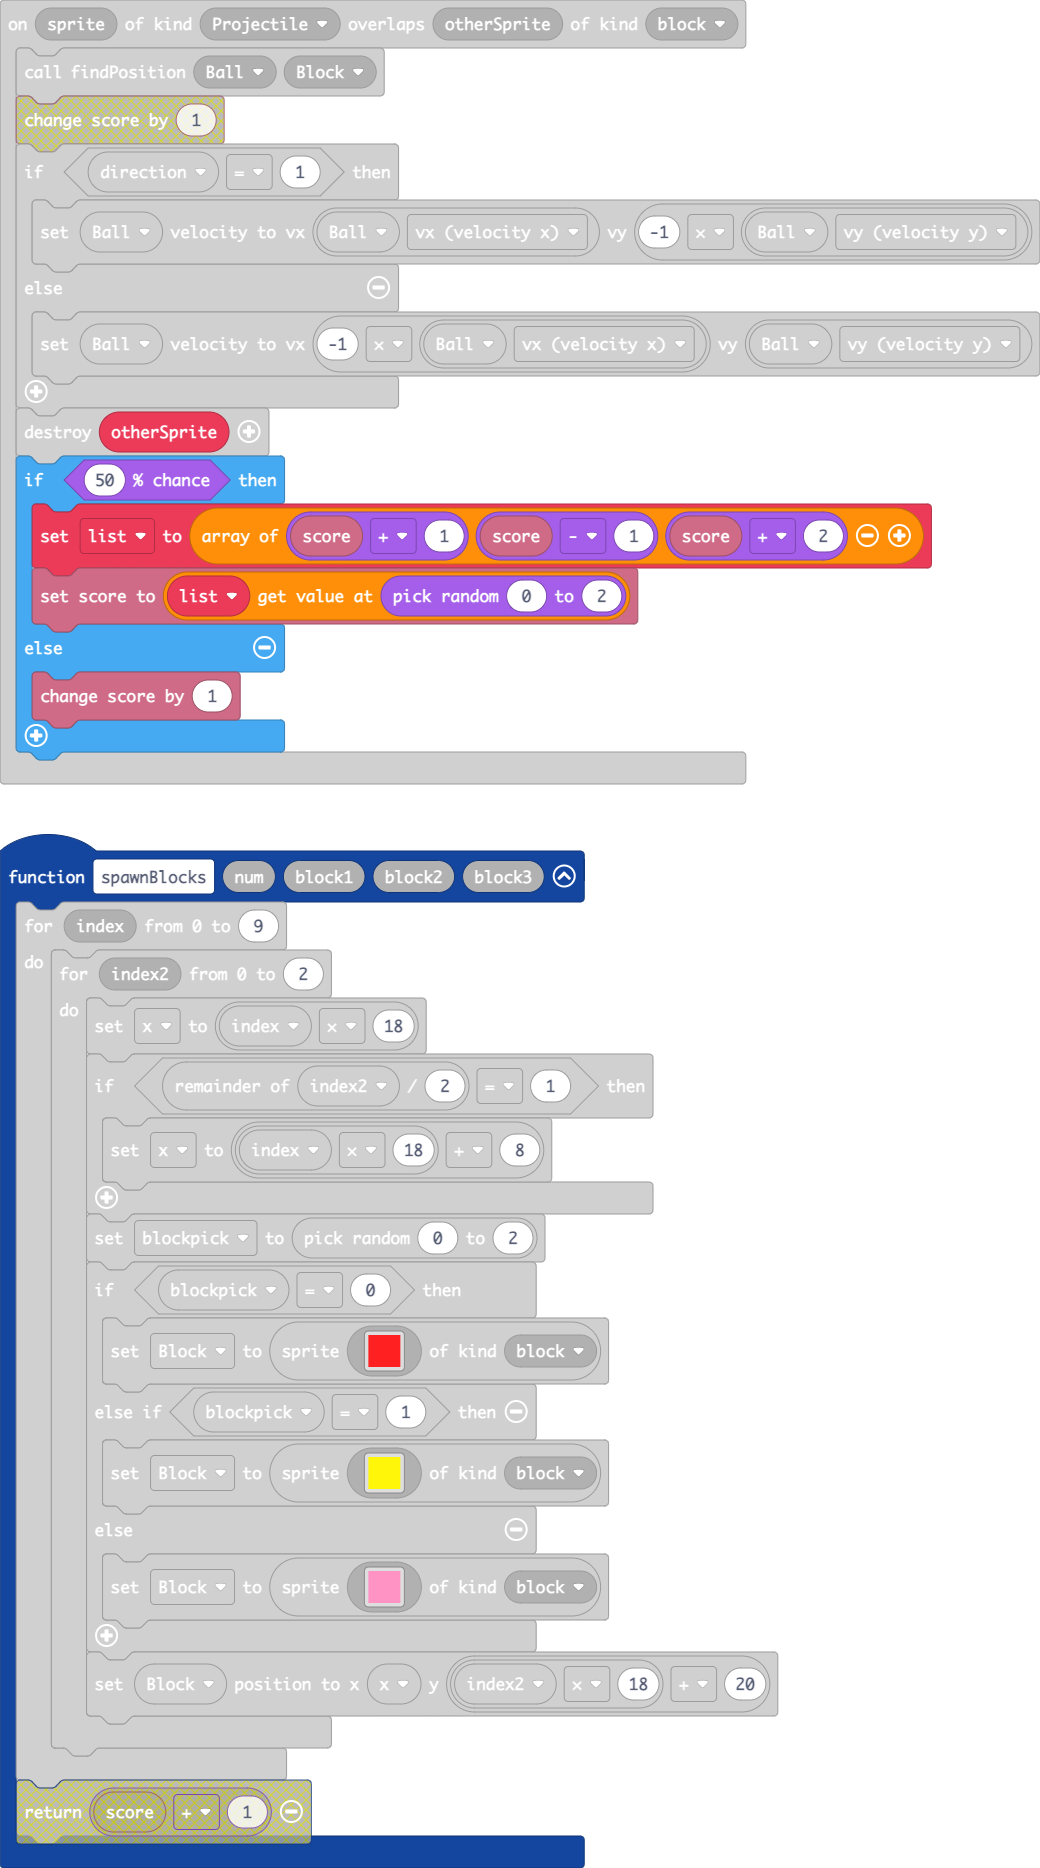
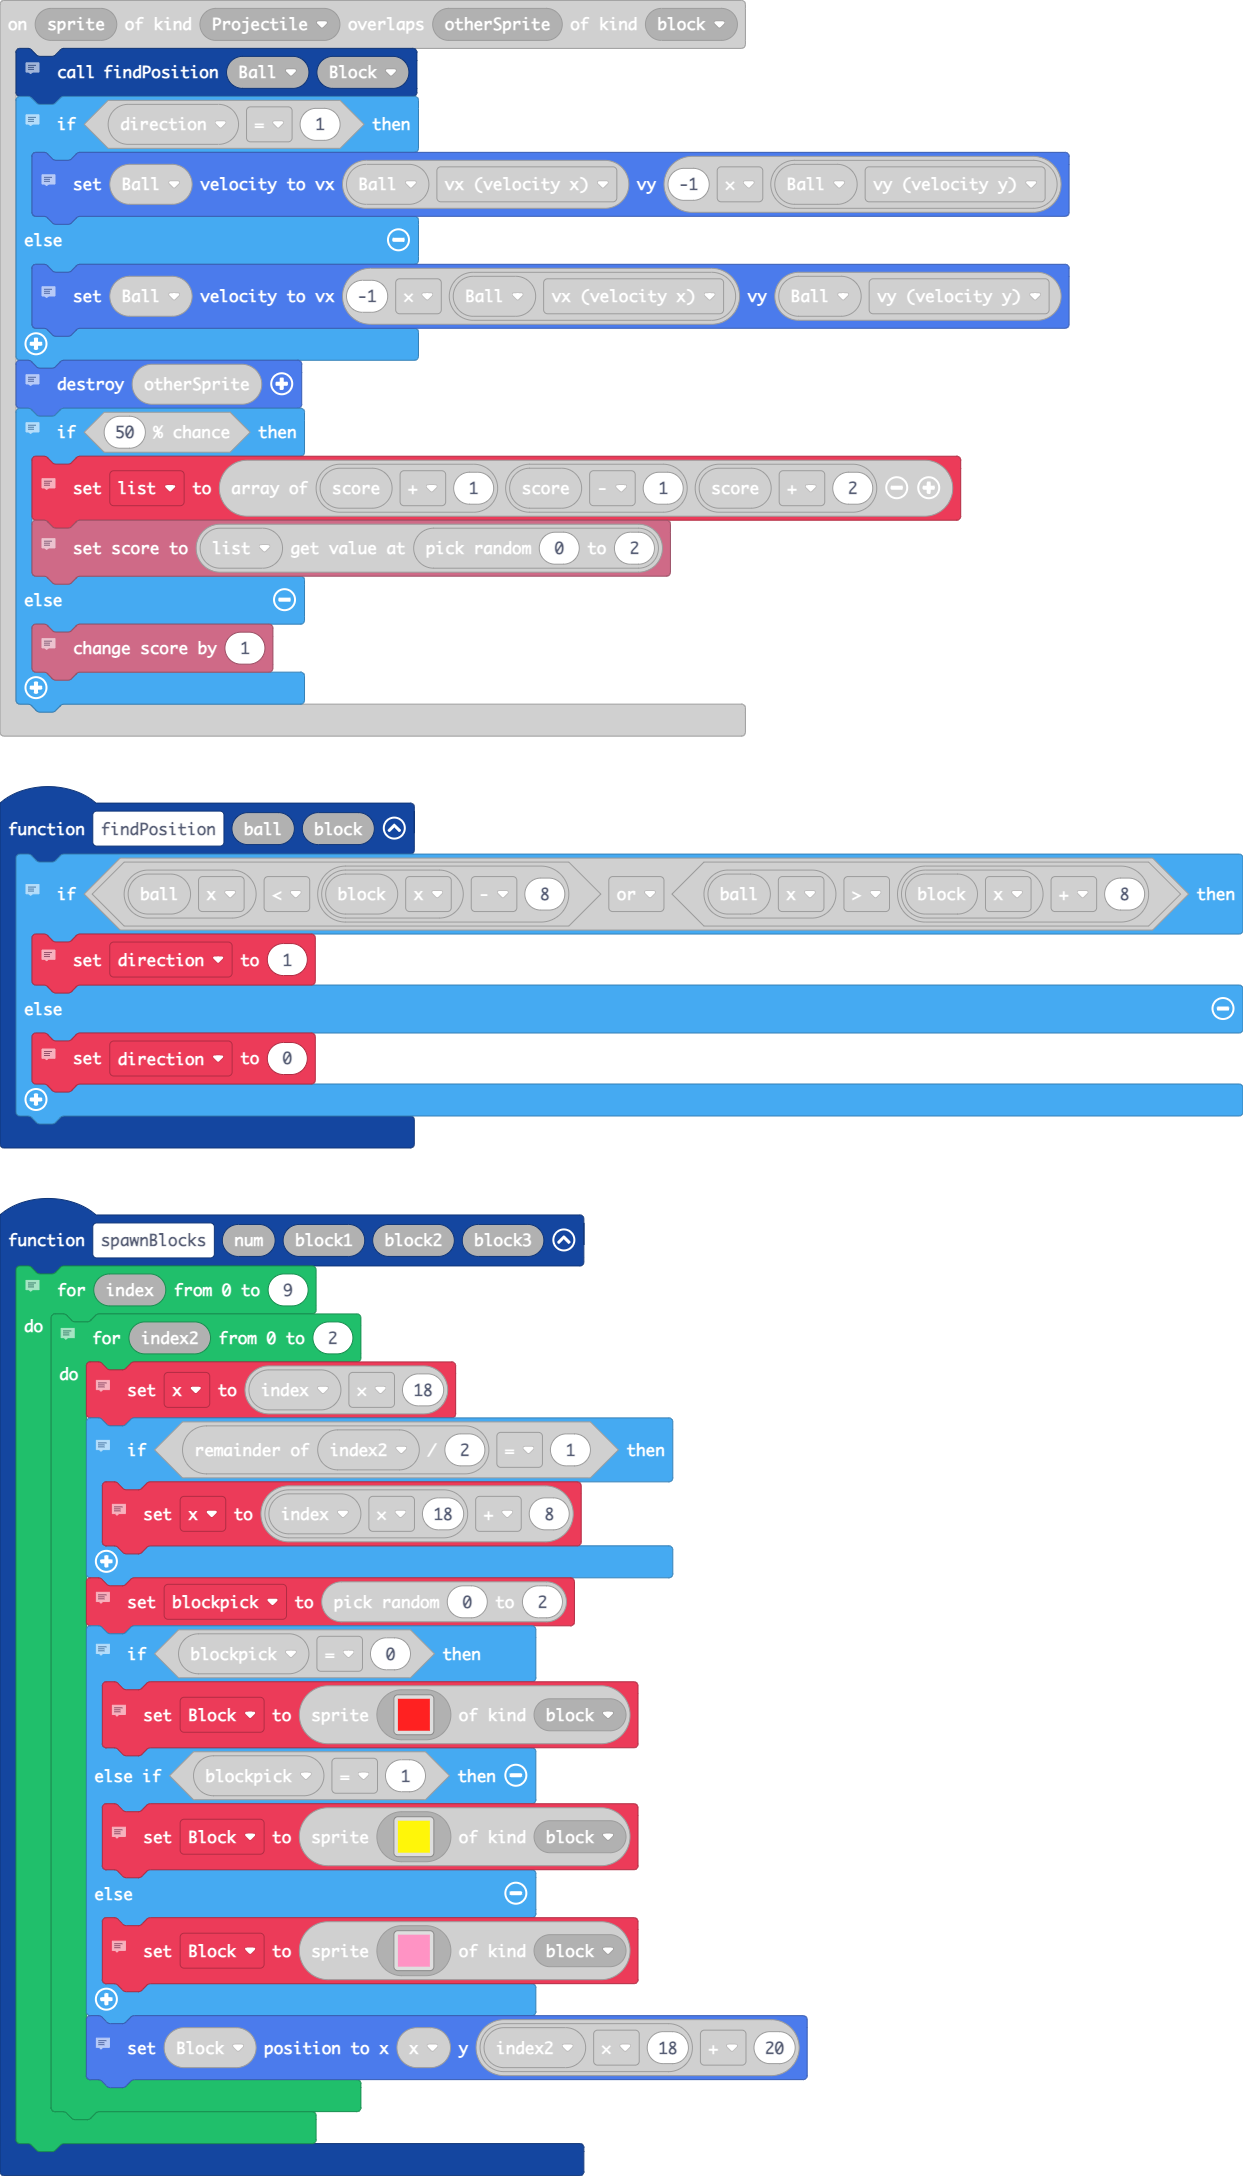
Update pxt.json, main.blocks, main.ts

diff --git a/main.ts b/main.ts
@@ -5,14 +5,23 @@ sprites.onOverlap(SpriteKind.Projectile, SpriteKind.Player, function (sprite, ot
     Ball2.setVelocity(Ball2.vx, -1 * Ball2.vy)
 })
 function spawnBlocks (num: number, block1: any[], block2: any[], block3: any[]) {
+    // repeats for 10 times, allowing the blocks to spawn 10 times
     for (let index = 0; index <= 9; index++) {
+        // repeats 3 times for each times index is repeating itself
         for (let index2 = 0; index2 <= 2; index2++) {
+            // sets the variable x to index x 18
             x = index * 18
+            // If index 2 / 2 = 1, then
             if (index2 % 2 == 1) {
+                // set variable x to index times 18 + 8
                 x = index * 18 + 8
             }
+            // sets blockpick to pick a random number between 0 - 2
             blockpick = randint(0, 2)
+            // if blockpick variable is equal to 0, then... If blockpick is equal to 1, then...
+            // else, then...
             if (blockpick == 0) {
+                // block becomes red sprite
                 Block = sprites.create(img`
                     2 2 2 2 2 2 2 2 2 2 2 2 2 2 2 2 
                     2 2 2 2 2 2 2 2 2 2 2 2 2 2 2 2 
@@ -32,6 +41,7 @@ function spawnBlocks (num: number, block1: any[], block2: any[], block3: any[]) 
                     2 2 2 2 2 2 2 2 2 2 2 2 2 2 2 2 
                     `, SpriteKind.block)
             } else if (blockpick == 1) {
+                // block becomes yellow sprite
                 Block = sprites.create(img`
                     5 5 5 5 5 5 5 5 5 5 5 5 5 5 5 5 
                     5 5 5 5 5 5 5 5 5 5 5 5 5 5 5 5 
@@ -51,6 +61,7 @@ function spawnBlocks (num: number, block1: any[], block2: any[], block3: any[]) 
                     5 5 5 5 5 5 5 5 5 5 5 5 5 5 5 5 
                     `, SpriteKind.block)
             } else {
+                // block becomes pink sprite
                 Block = sprites.create(img`
                     3 3 3 3 3 3 3 3 3 3 3 3 3 3 3 3 
                     3 3 3 3 3 3 3 3 3 3 3 3 3 3 3 3 
@@ -70,29 +81,45 @@ function spawnBlocks (num: number, block1: any[], block2: any[], block3: any[]) 
                     3 3 3 3 3 3 3 3 3 3 3 3 3 3 3 3 
                     `, SpriteKind.block)
             }
+            // sets block position to x of variable x and y index time 18 + 20
             Block.setPosition(x, index2 * 18 + 20)
         }
     }
 }
 sprites.onOverlap(SpriteKind.Projectile, SpriteKind.block, function (sprite, otherSprite) {
+    // calls function findPosition
     findPosition(Ball2, Block)
+    // if direction variable = 1, then...
+    // else then...
     if (direction == 1) {
+        // sets ball velocity to vx (velocity x) and vy to -1 times ball (velocity y) 
         Ball2.setVelocity(Ball2.vx, -1 * Ball2.vy)
     } else {
+        // sets ball to vx -1 times ball (velocity x) and vy ball (velocity y)
         Ball2.setVelocity(-1 * Ball2.vx, Ball2.vy)
     }
+    // destroys othersprite
     sprites.destroy(otherSprite)
+    // if 50% is true, then...
+    // else then...
     if (Math.percentChance(50)) {
+        // creates list of array score +1, score - 1, score + 2
         list = [info.score() + 1, info.score() - 1, info.score() + 2]
+        // sets score to random value between 0 and 2 from list.
         info.setScore(list[randint(0, 2)])
     } else {
+        // change score by 1
         info.changeScoreBy(1)
     }
 })
 function findPosition (ball: Sprite, block: Sprite) {
+    // if ball x position is less than block x position - 8 or ball x position is bigger than block x position + 8 then...
+    // else then...
     if (ball.x < block.x - 8 || ball.x > block.x + 8) {
+        // set direction variable to 1
         direction = 1
     } else {
+        // set direction variable to 0
         direction = 0
     }
 }
